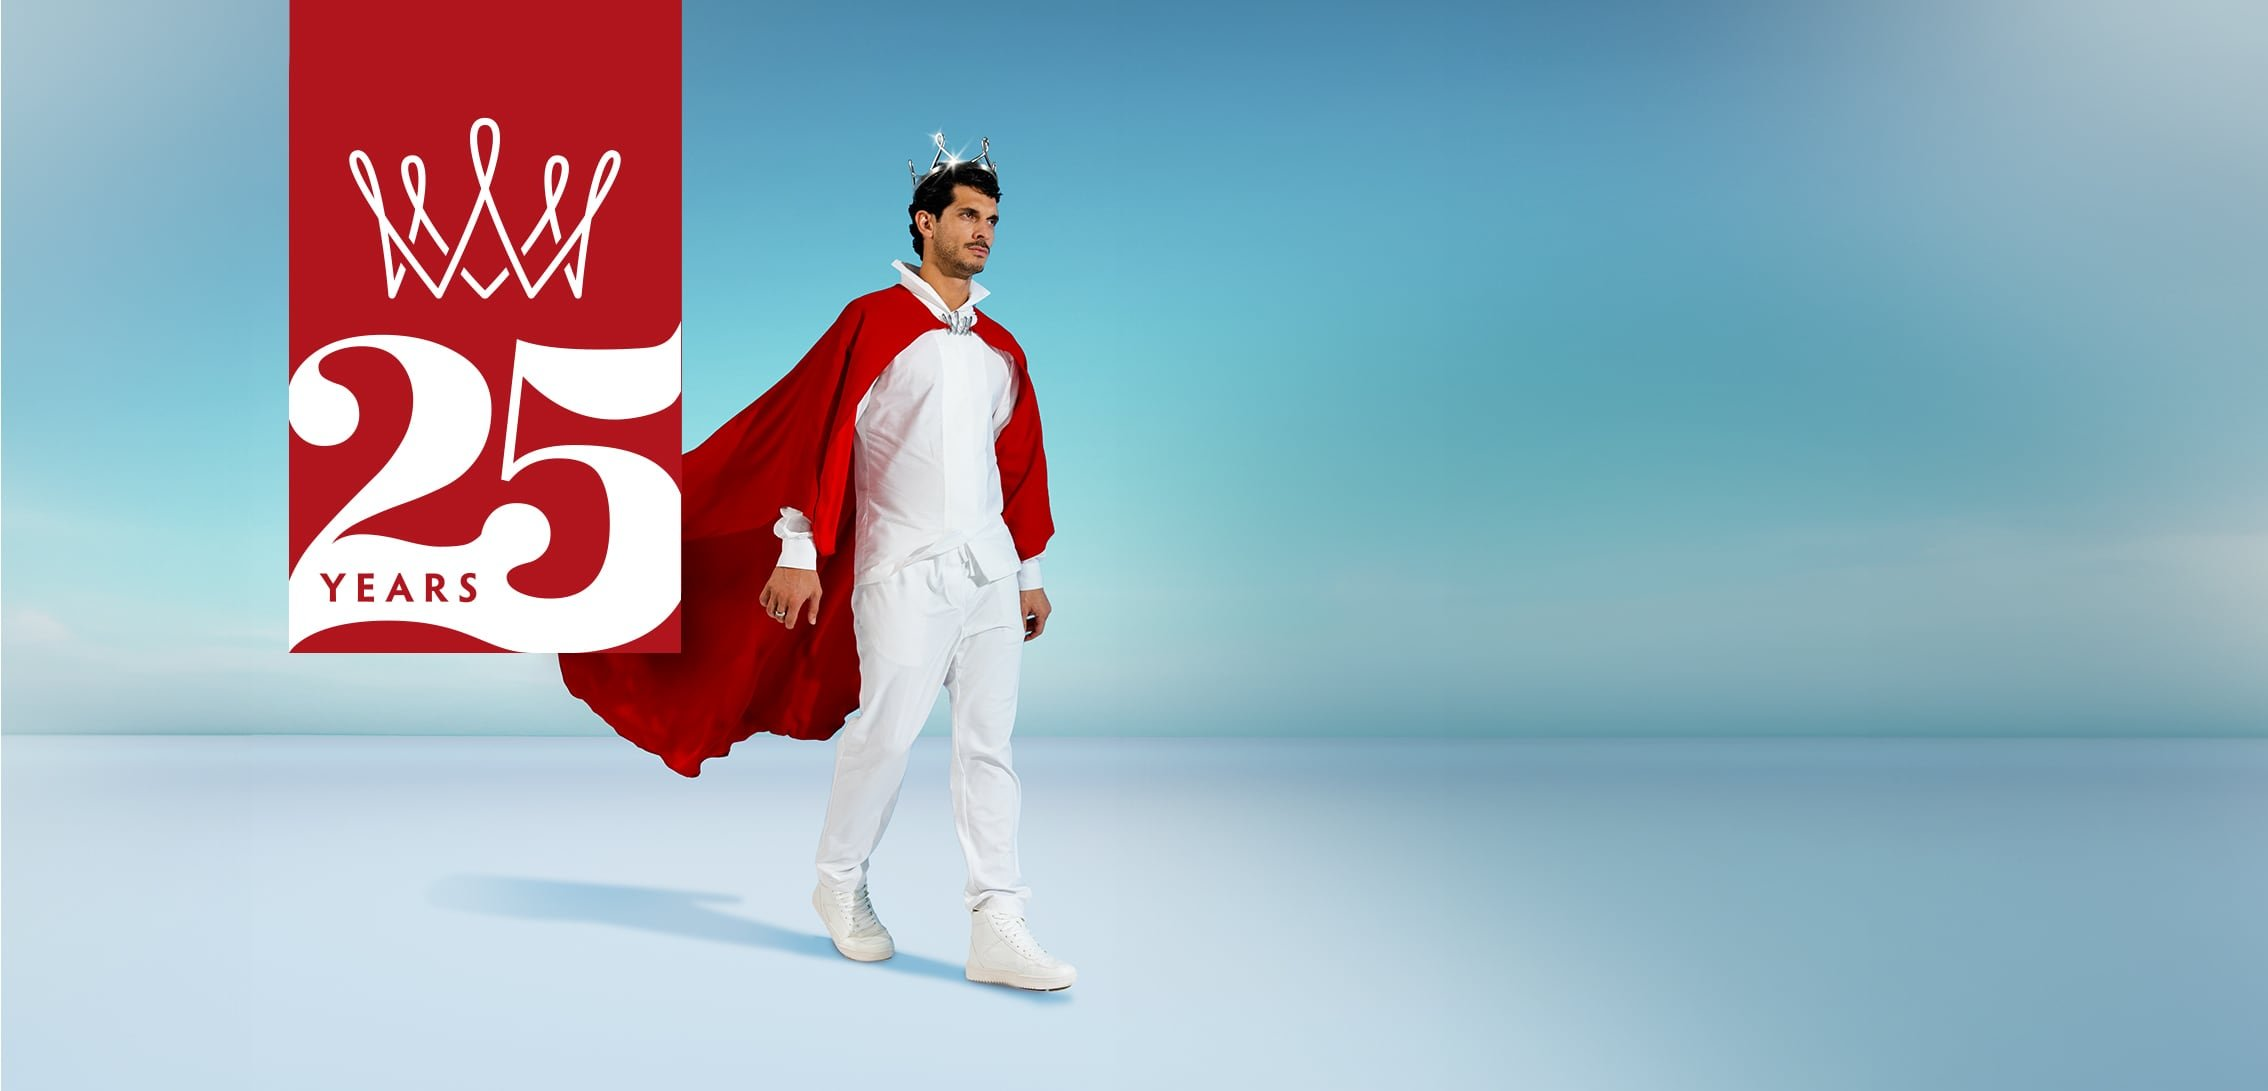
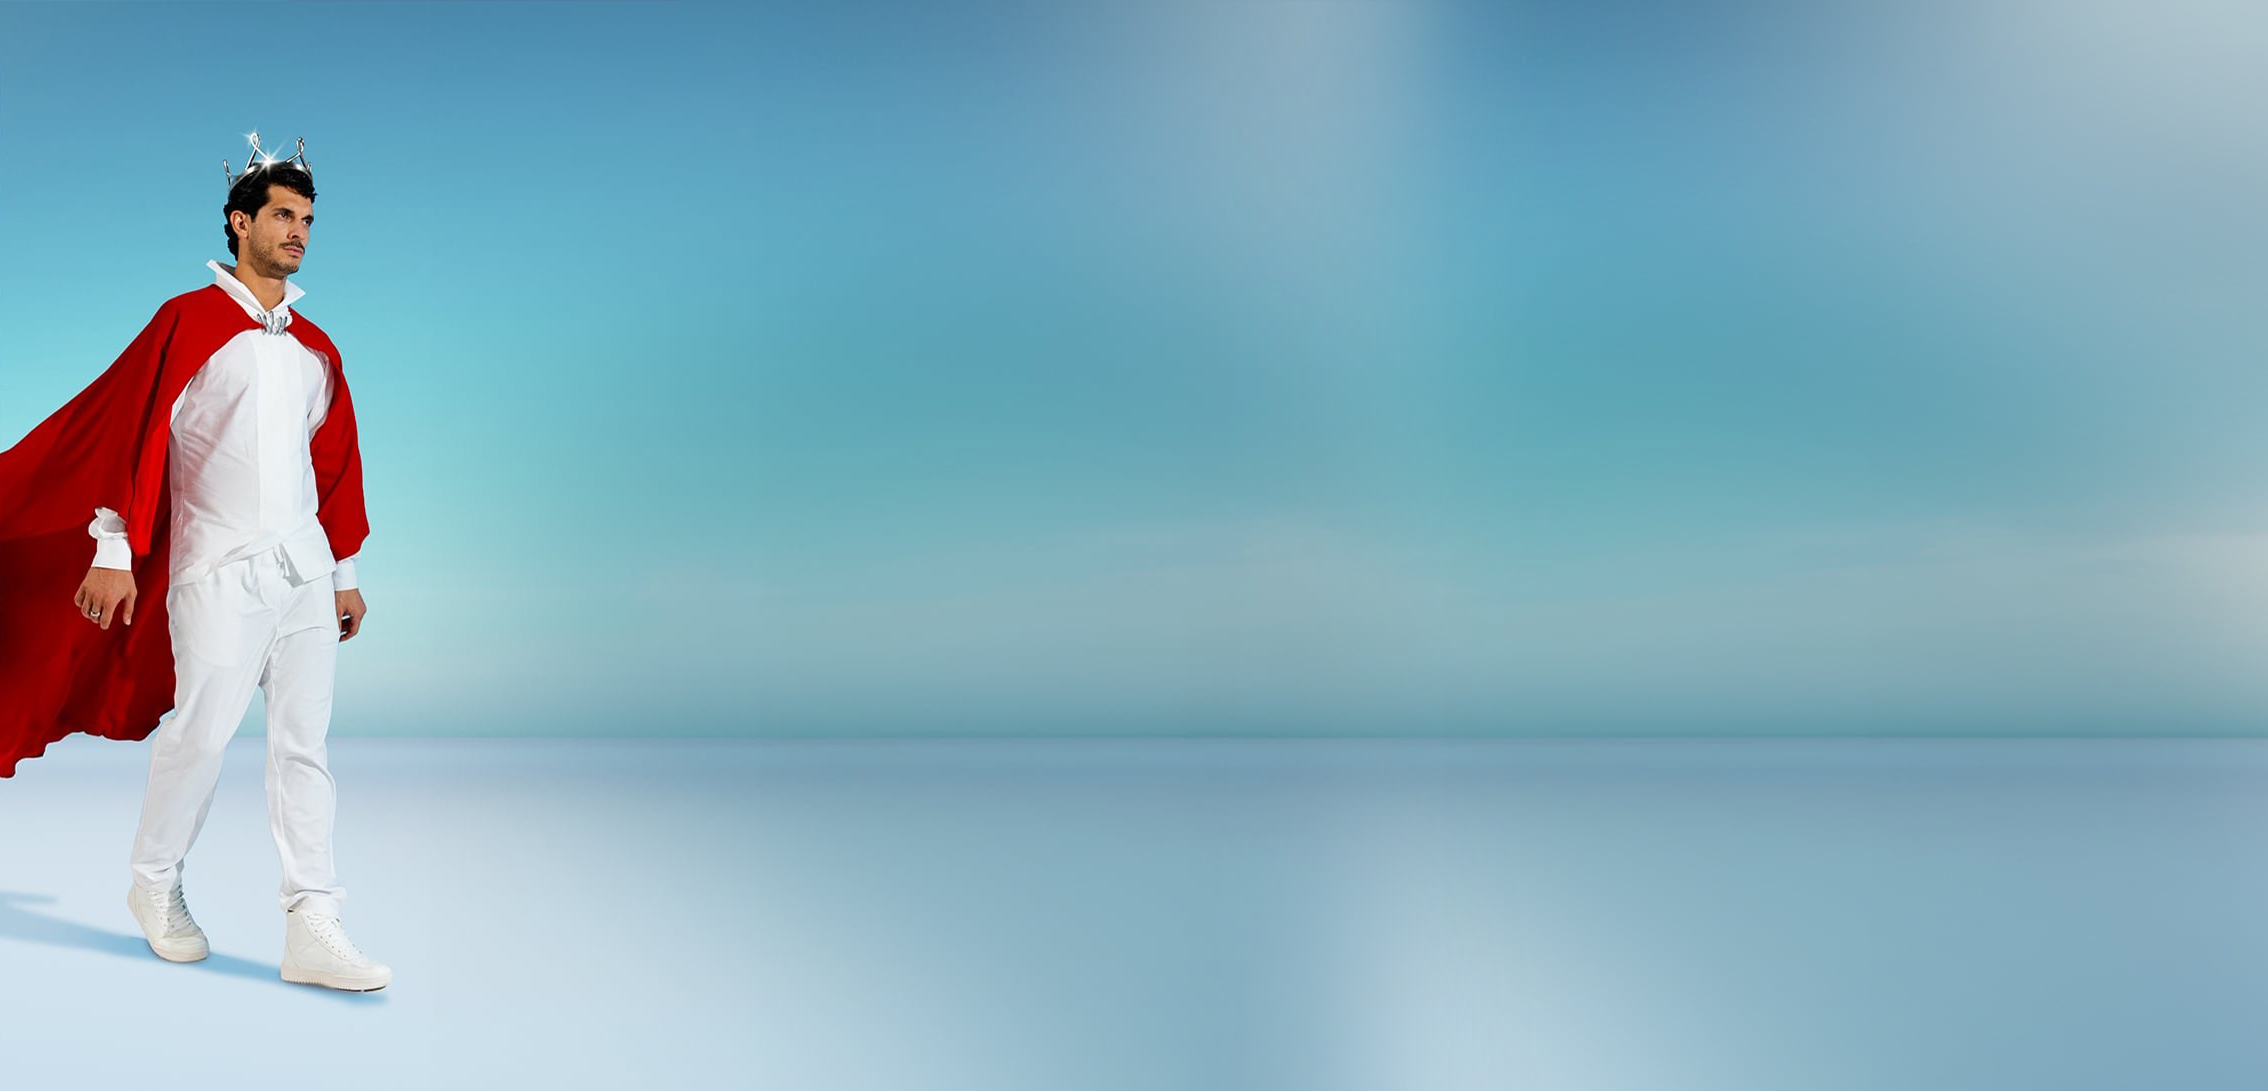
Reg Background Image

diff --git a/resources/views/components/layouts/auth/simple.blade.php b/resources/views/components/layouts/auth/simple.blade.php
@@ -7,15 +7,15 @@
         <link href="https://fonts.googleapis.com/css2?family=Zen+Kaku+Gothic+Antique&display=swap" rel="stylesheet">
     </head>
     <body class="min-h-screen bg-white antialiased dark:bg-linear-to-b dark:from-neutral-950 dark:to-neutral-900">
-        <div class="bg-[url(https://foxecom.test/images/reg-background.jpg)] bg-left-bottom flex min-h-svh flex-col items-center justify-center gap-6 p-6 md:p-10">
-            <div class="flex w-full max-w-3xl flex-col gap-2 ">
+        <div style="background-image: url({{url('images/reg-background.jpg')}})" class="bg-cover bg-no-repeat bg-left-top flex min-h-svh flex-col items-center justify-center gap-6 p-6 md:p-10">
+            <div class="flex w-full max-w-3xl flex-col gap-2 max-h-screen overflow-y-hidden">
                 <a href="{{ route('home') }}" class="flex flex-col items-center gap-2 font-medium" wire:navigate>
                     <span class="flex items-center justify-center rounded-md">
                         <x-app-logo-icon />
                     </span>
                     <span class="sr-only">{{ config('app.name', 'Laravel') }}</span>
                 </a>
-                <div class="flex flex-col gap-6 bg-white p-5 rounded-lg shadow-md dark:bg-neutral-800">
+                <div class="flex flex-col gap-6 bg-white p-5 rounded-lg shadow-md dark:bg-neutral-800 overflow-y-scroll">
                     {{ $slot }}
                 </div>
             </div>
